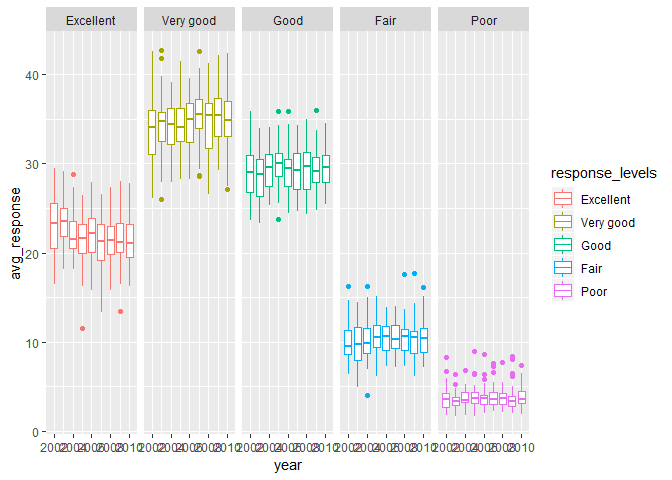
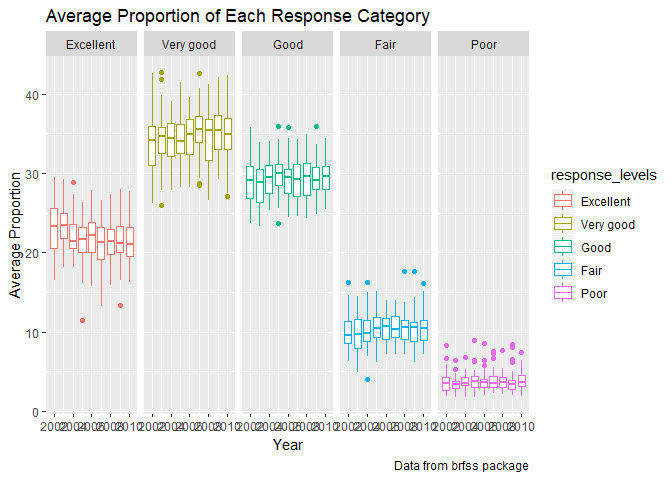
Included explanation for code chunk answering Problem 1.4

diff --git a/p8105_HW3_bjl2150.md b/p8105_HW3_bjl2150.md
@@ -156,7 +156,9 @@ brfss_table_1 %>%
 
 ``` r
 brfss_4 = brfss %>%
-  mutate(response_levels = forcats::fct_relevel(response, c("Excellent",  "Very good", "Good", "Fair", "Poor"))) %>%
+  mutate(response_levels = forcats::fct_relevel(response, c("Excellent",  
+                                                            "Very good", "Good", 
+                                                            "Fair", "Poor"))) %>%
   select(year, locationabbr, data_value, response_levels) %>%
   group_by(response_levels, locationabbr, year) %>%
   summarize(avg_response = mean(data_value))
@@ -165,12 +167,22 @@ brfss_4 %>%
     ggplot(aes(x = year, y = avg_response, group = year, color = response_levels)) +
   geom_boxplot() + 
   facet_grid(~response_levels) + 
-  viridis::scale_fill_viridis(discrete = TRUE)
+  viridis::scale_fill_viridis(discrete = TRUE) %>%
+   labs(
+    title = "Average Proportion of Each Response Category",
+    x = "Year",
+    y = "Average Proportion",
+    caption = "Data from brfss package"
+  )
 ```
 
     ## Warning: Removed 21 rows containing non-finite values (stat_boxplot).
 
 ![](p8105_HW3_bjl2150_files/figure-markdown_github/unnamed-chunk-5-1.png)
+
+In the following code chunk, the brfss\_4 dataframe was created from the modified brfss dataset. The response levels were releveled into a new variable 'response\_levels which was then specifically selected along with the columns 'year', 'locationabbr', and 'data\_value'. The average response was caluclated taking the mean of 'data\_value'.
+
+A separate code was used to create the 5-panel boxplot for all response\_levels for each year and state. Additonally, title name, labelled X- and Y- axes, and caption were included in the plot.
 
 Problem 2
 =========
